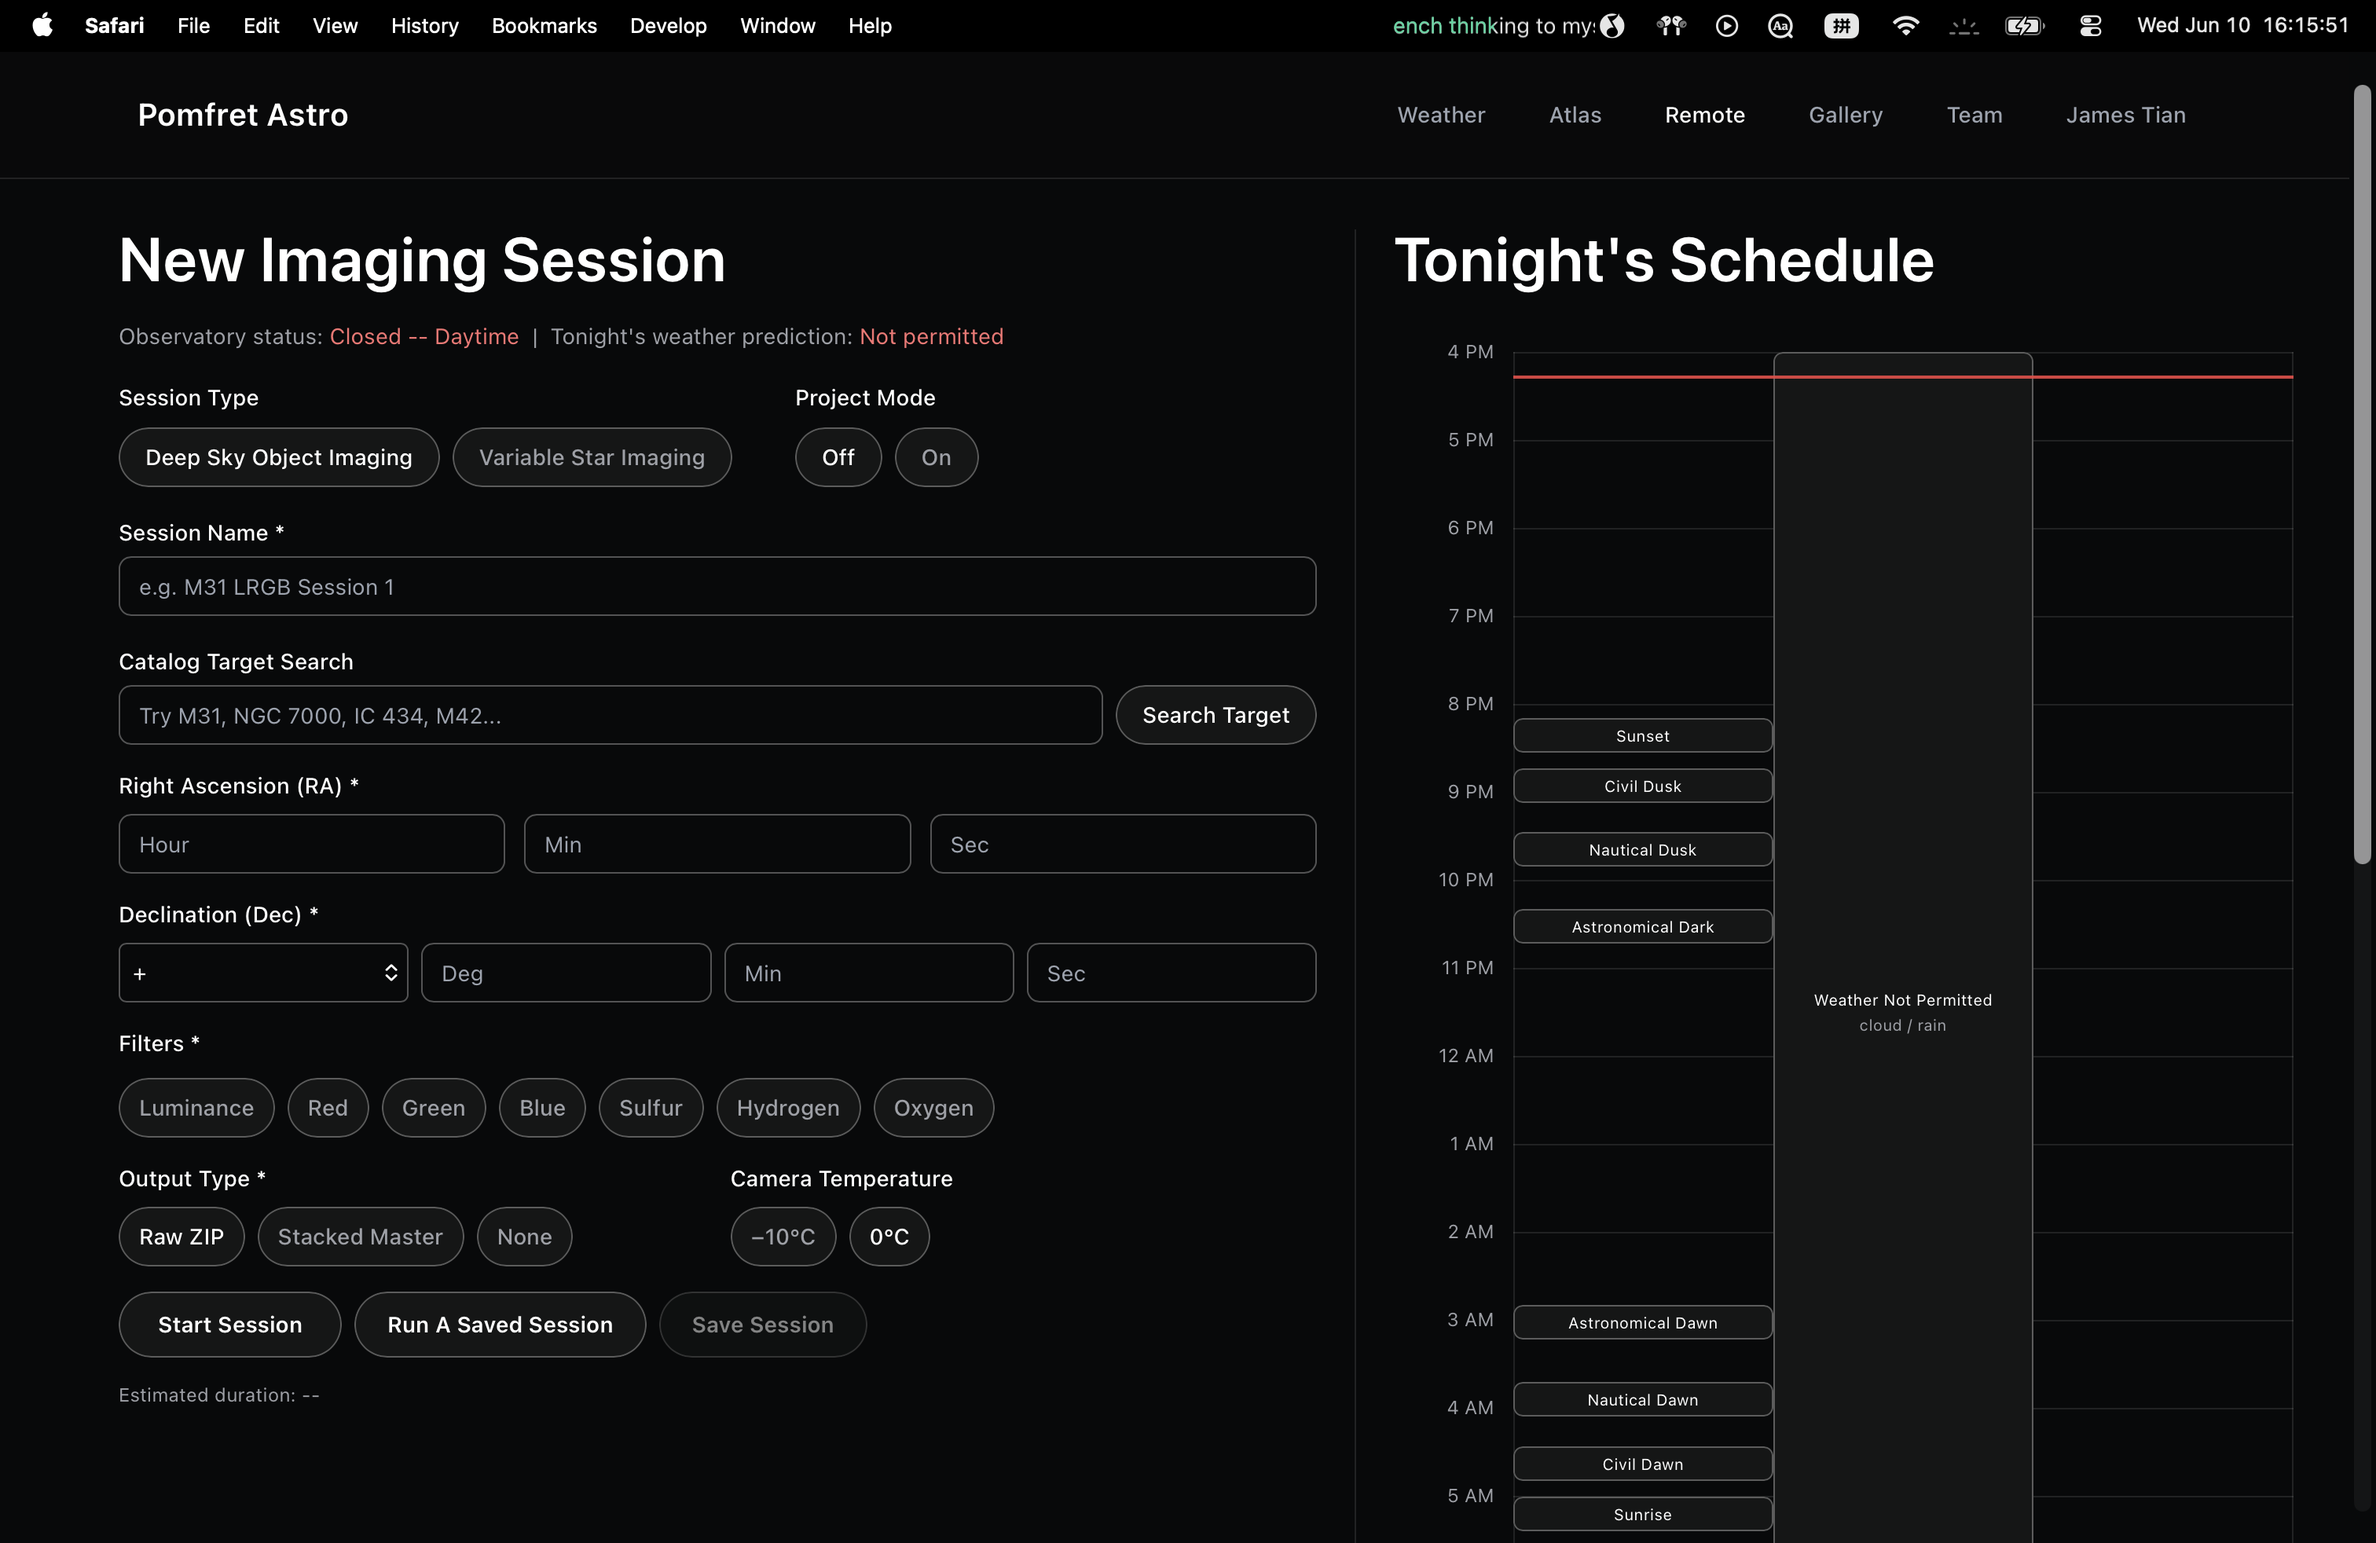
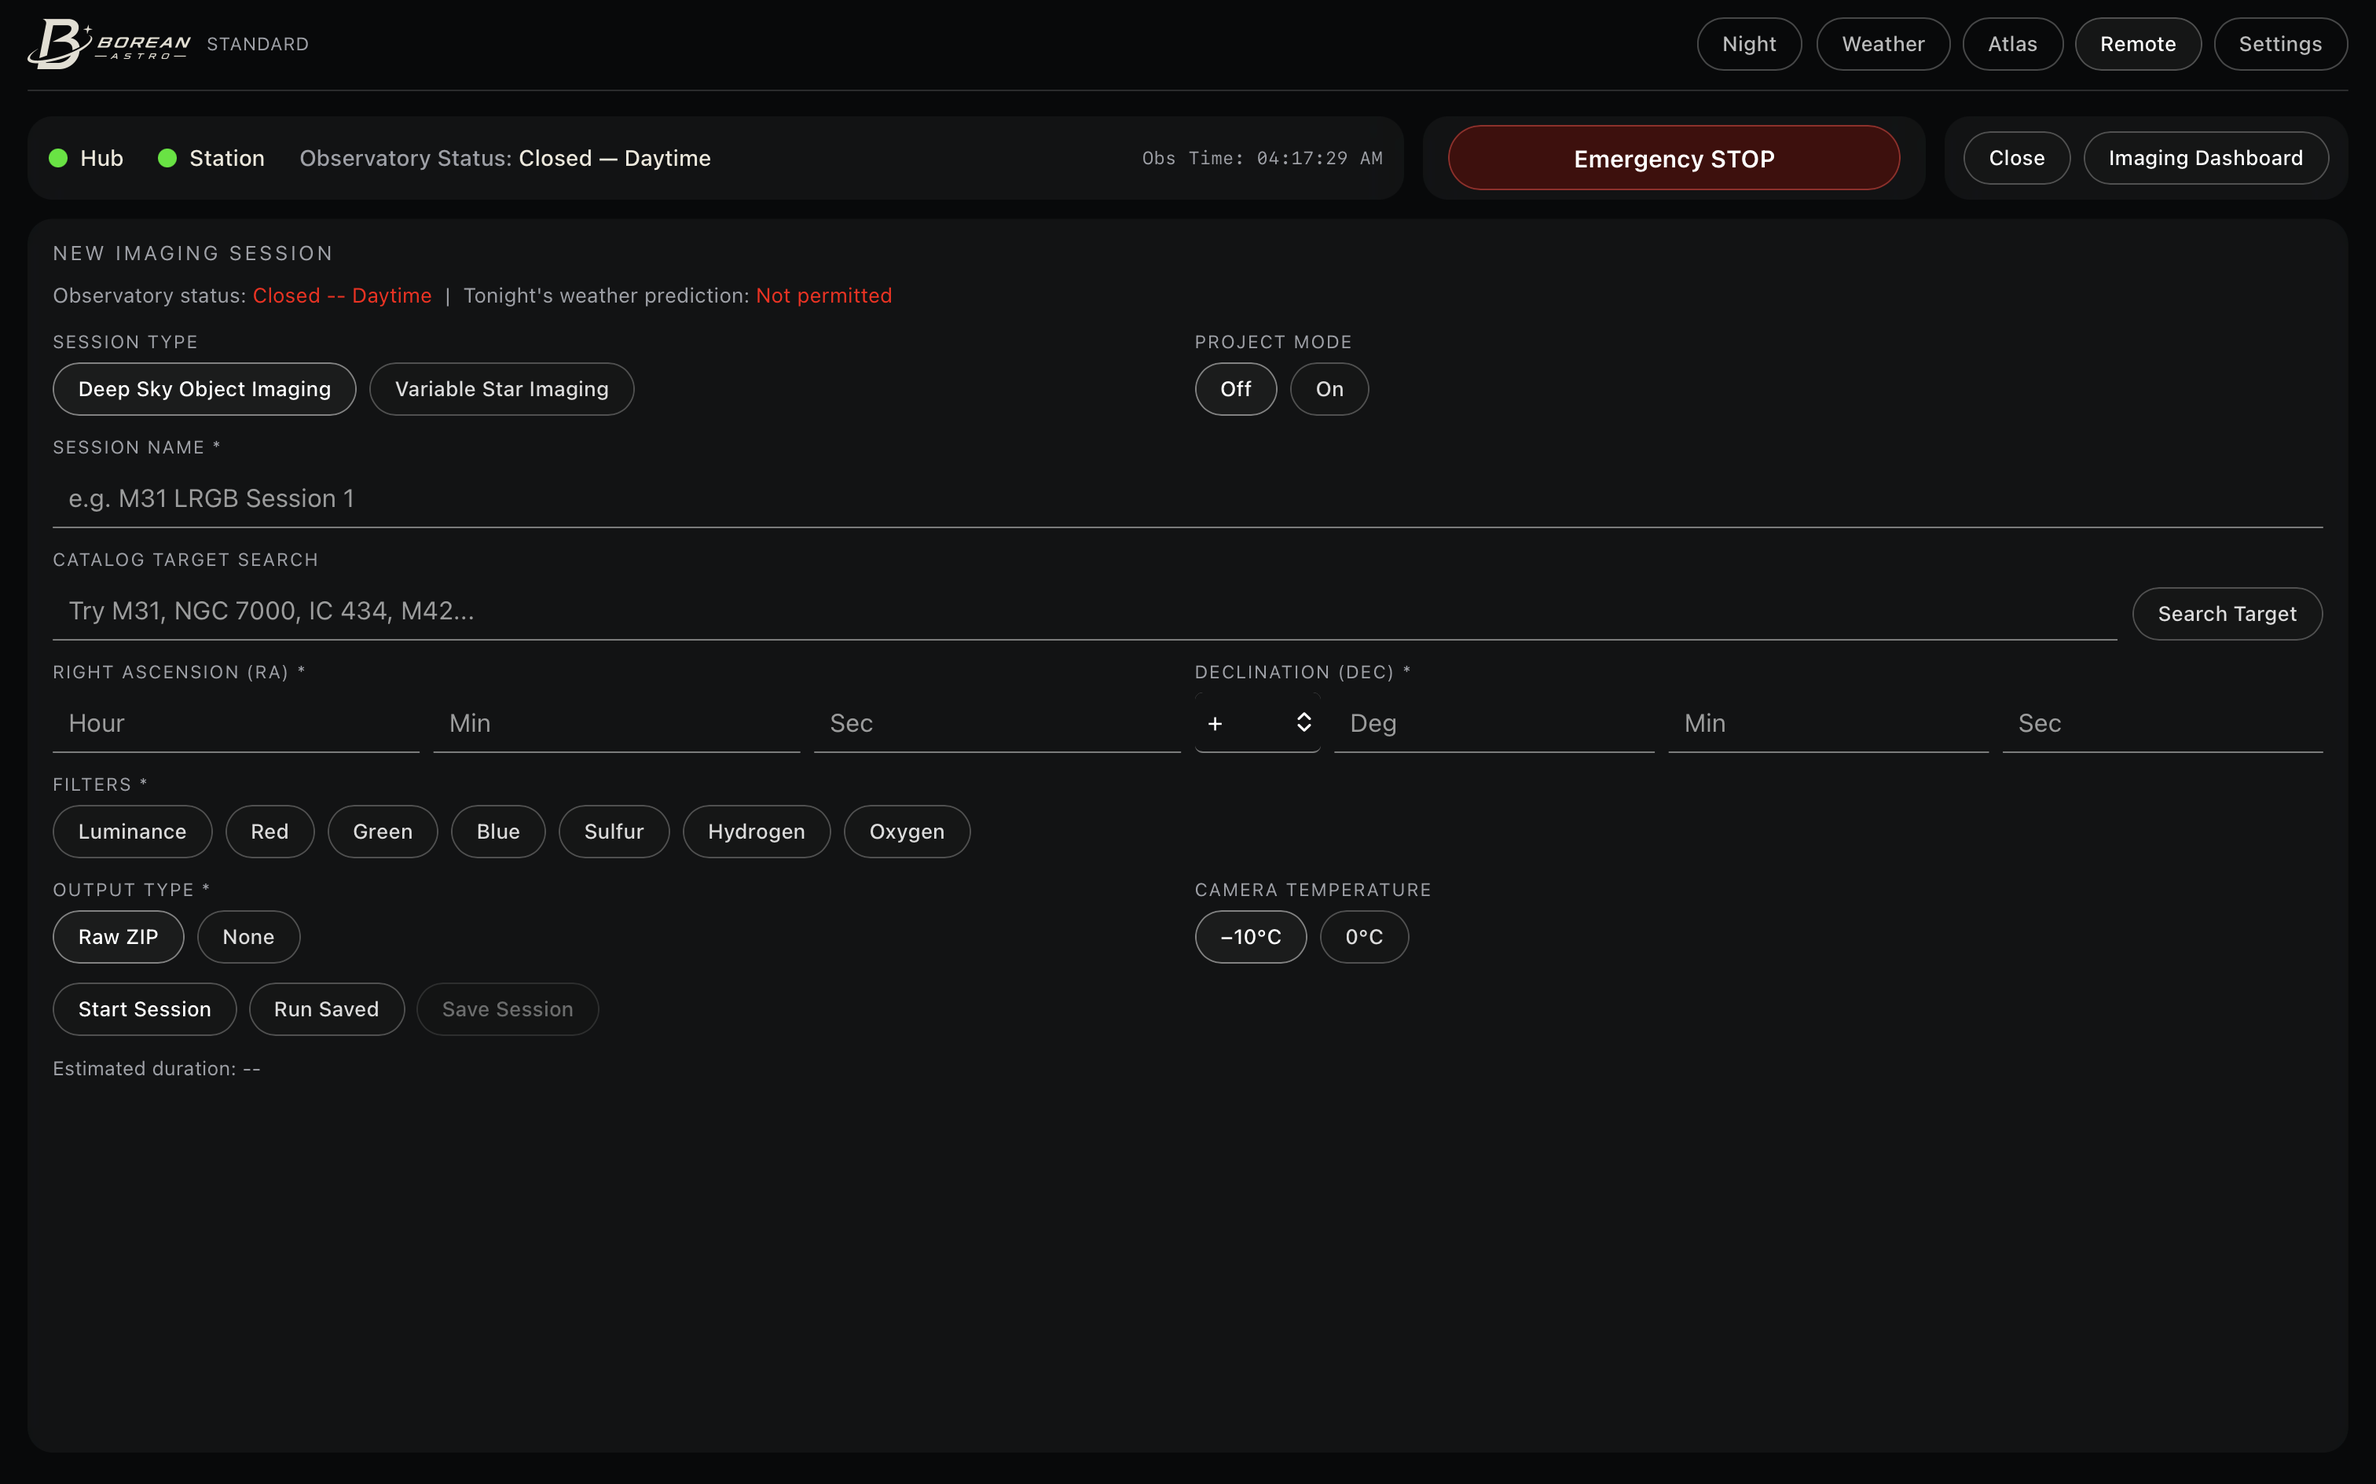
Replace FRAOS marketing screenshots with latest Control and Station captures.
Add Station product image and update Create Session screenshot on the FRAOS story page.

diff --git a/general-platforms/standard/website/components/ProductStoryPage.tsx b/general-platforms/standard/website/components/ProductStoryPage.tsx
@@ -227,8 +227,8 @@ export function ProductStoryPage({ plan }: ProductStoryPageProps) {
         />
         <div data-reveal-item className="page-shell mt-14">
           <ProductMediaFrame
-            alt="Borean Station dashboard"
-            placeholderLabel="Borean Station — system checks, live log, and NINA status (screenshot coming)"
+            src={MEDIA.station}
+            alt="Borean Station dashboard with system checks, agent log, license, and settings"
             aspect="hero"
             className="mx-auto max-w-5xl"
           />

diff --git a/general-platforms/standard/website/lib/fraos-product-story.ts b/general-platforms/standard/website/lib/fraos-product-story.ts
@@ -21,6 +21,7 @@ export const MEDIA = {
   atlas: '/media/fraos/atlas.png',
   atlasNight: '/media/fraos/atlas-night.png',
   weather: '/media/fraos/weather.png',
+  station: '/media/fraos/station.png',
   logoFull: '/media/fraos/borean-logo-full.png',
 } as const
 
